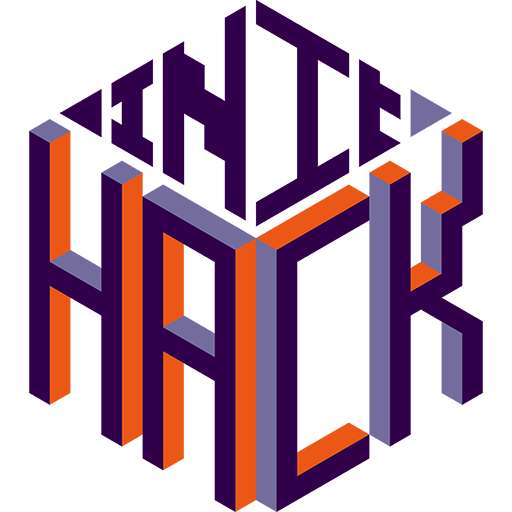
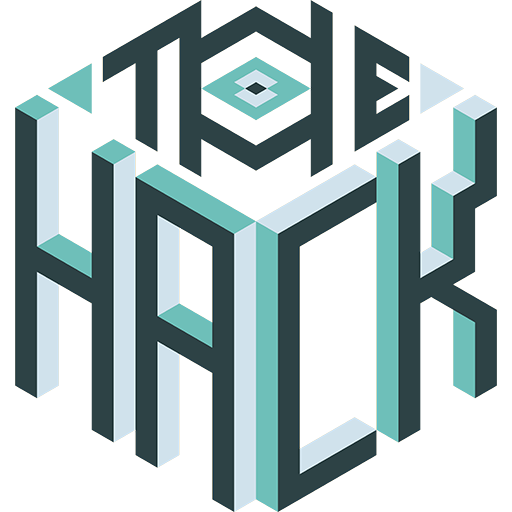
Customization Changed hackathon_name from Hack.init() to THE Hack

diff --git a/hardwarecheckout/config.py b/hardwarecheckout/config.py
@@ -41,7 +41,7 @@ FORCE_SSL = False
 
 ## Metadata ##
 
-HACKATHON_NAME = "Hack.init()"
+HACKATHON_NAME = "THE Hack"
 
 ## Event logistical settings ##
 
